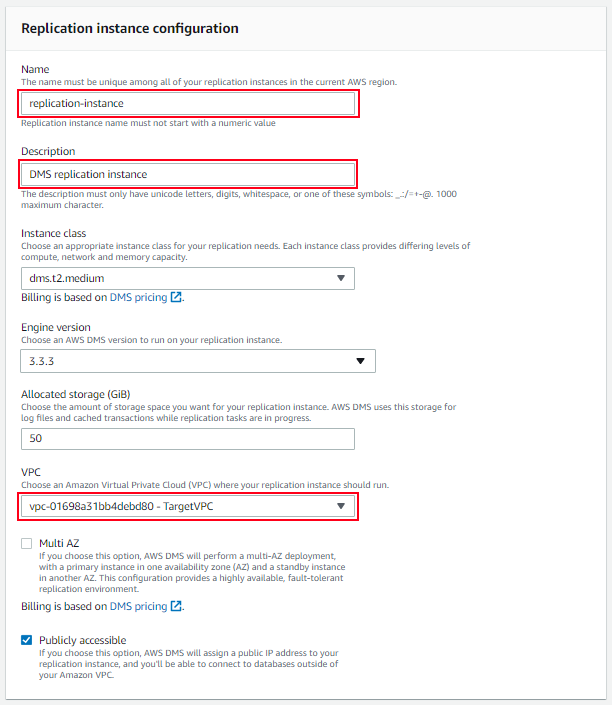
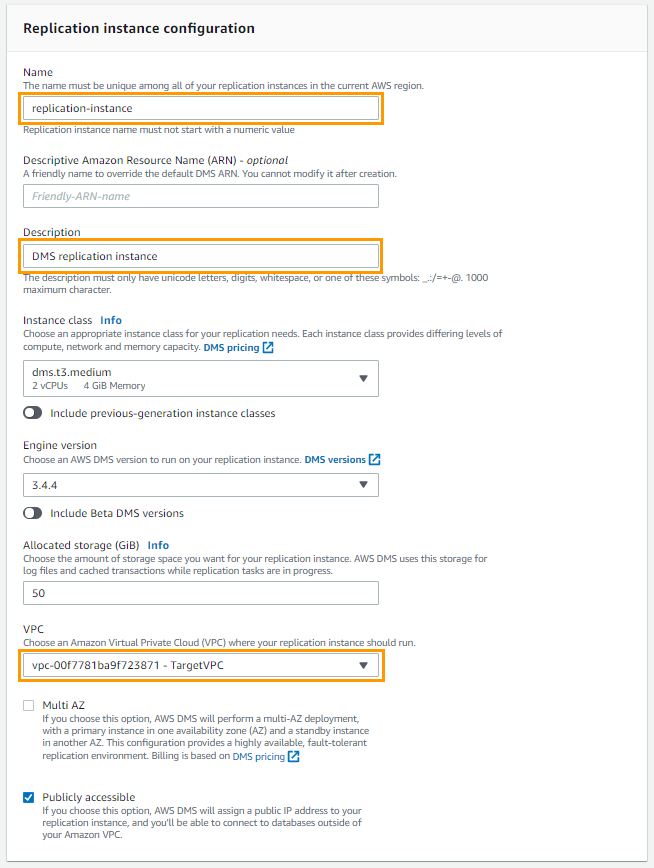
updating DMS replication instance details

Changed region(s): [[0.0, 0.0, 0.7761, 0.9674]]

diff --git a/workshop/content/database-migration/Create-Replication-Instance.ja.md b/workshop/content/database-migration/Create-Replication-Instance.ja.md
@@ -19,9 +19,6 @@ weight = 20
     | ------------------- | ------------------------ |
     | 名前                 | replication-instance     |
     | 説明                 | DMS replication instance |
-    | インスタンスクラス     | dms.t2.medium            |
-    | エンジンバージョン     | 3.3.3                    |
-    | 割り当てられたストレージ（GiB）| 50                 |
     | VPC                 | TargetVPC                |
     | マルチ AZ            | チェックを外す             |
     | パブリックアクセス可能  | チェックを入れる           |

diff --git a/workshop/content/database-migration/Create-Replication-Instance.es.md b/workshop/content/database-migration/Create-Replication-Instance.es.md
@@ -38,9 +38,6 @@ En este paso, creará una instancia de replicación para <a href="https://aws.am
     | ------------------- | ------------------------ |
     | Name                | replication-instance     |
     | Description         | Instancia de replicación DMS |
-    | Instance Class      | dms.t2.medium            |
-    | Engine version      | 3.3.3                    |
-    |Allocated storage (GB)| 50                      |
     | VPC                 | TargetVPC            |
     | Multi-AZ            | Desmarcado                |
     | Publicly accessible | Marcado                  |

diff --git a/workshop/content/database-migration/Create-Replication-Instance.fr.md b/workshop/content/database-migration/Create-Replication-Instance.fr.md
@@ -38,9 +38,6 @@ Dans cette étape, vous allez créer une <a href="https://aws.amazon.com/dms/" t
     | ------------------- | ------------------------ |
     | Name                | replication-instance     |
     | Description         | DMS replication instance |
-    | Instance Class      | dms.t2.medium            |
-    | Engine version      | 3.3.3                    |
-    |Allocated storage (GB)| 50                      |
     | VPC                 | TargetVPC                |
     | Multi-AZ            | Unchecked                |
     | Publicly accessible | Checked                  |

diff --git a/workshop/content/database-migration/Create-Replication-Instance.en.md b/workshop/content/database-migration/Create-Replication-Instance.en.md
@@ -38,9 +38,6 @@ In this step you will create an <a href="https://aws.amazon.com/dms/" target="_b
     | ------------------- | ------------------------ |
     | Name                | replication-instance     |
     | Description         | DMS replication instance |
-    | Instance Class      | dms.t2.medium            |
-    | Engine version      | 3.3.3                    |
-    |Allocated storage (GB)| 50                      |
     | VPC                 | TargetVPC            |
     | Multi-AZ            | Unchecked                |
     | Publicly accessible | Checked                  |

diff --git a/workshop/content/database-migration/Create-Replication-Instance.it.md b/workshop/content/database-migration/Create-Replication-Instance.it.md
@@ -20,9 +20,6 @@ In questo passaggio creerai una <a href="https://aws.amazon.com/dms/" target="_b
     | ------------------- | ------------------------ |
     | Name                | replication-instance     |
     | Description         | DMS replication instance |
-    | Instance Class      | dms.t2.medium            |
-    | Engine version      | 3.3.1                    |
-    |Allocated storage (GB)| 50                      |
     | VPC                 | TargetVPC            |
     | Multi-AZ            | Unchecked                |
     | Publicly accessible | Checked                  |

diff --git a/workshop/content/database-migration/Create-Replication-Instance.nl.md b/workshop/content/database-migration/Create-Replication-Instance.nl.md
@@ -38,9 +38,6 @@ In deze stap creëer je de <a href="https://aws.amazon.com/dms/" target="_blank"
     | ------------------- | ------------------------ |
     | Name                | replication-instance     |
     | Description         | DMS replication instance |
-    | Instance Class      | dms.t2.medium            |
-    | Engine version      | 3.3.3                    |
-    |Allocated storage (GB)| 50                      |
     | VPC                 | TargetVPC            |
     | Multi-AZ            | Unchecked                |
     | Publicly accessible | Checked                  |

diff --git a/workshop/content/database-migration/Create-Replication-instance.pt.md b/workshop/content/database-migration/Create-Replication-instance.pt.md
@@ -20,9 +20,6 @@ Neste passo você criará uma <a href="https://aws.amazon.com/dms/" target="_bla
     | ------------------- | ------------------------ |
     | Name                | replication-instance     |
     | Description         | DMS replication instance |
-    | Instance Class      | dms.t2.medium            |
-    | Engine version      | 3.3.1                    |
-    |Allocated storage (GB)| 50                      |
     | VPC                 | TargetVPC            |
     | Multi-AZ            | Unchecked                |
     | Publicly accessible | Checked                  |

diff --git a/workshop/content/database-migration/Create-Replication-Instance.zh.md b/workshop/content/database-migration/Create-Replication-Instance.zh.md
@@ -38,9 +38,6 @@ weight = 20
     | ------------------- | ------------------------ |
     | 名称                 | replication-instance     |
     | 描述                 | DMS replication instance |
-    | 实例类               | dms.t2.medium            |
-    | 引擎版本              | 3.3.1                    |
-    | 分配的存储空间(GB)     | 50                      |
     | VPC                  | TargetVPC               |
     | 多可用区              | 取消选择                |
     | 公开访问              | 选中状态                  |

diff --git a/workshop/content/database-migration/Create-Replication-Instance.de.md b/workshop/content/database-migration/Create-Replication-Instance.de.md
@@ -23,9 +23,6 @@ mit folgenden Parameterwerten:
     | ------------------- | ------------------------ |
     | Name                | replication-instance     |
     | Description         | DMS replication instance |
-    | Instance Class      | dms.t2.medium            |
-    | Engine version      | 3.3.1                    |
-    |Allocated storage (GB)| 50                      |
     | VPC                 | TargetVPC            |
     | Multi-AZ            | Unchecked                |
     | Publicly accessible | Checked                  |
